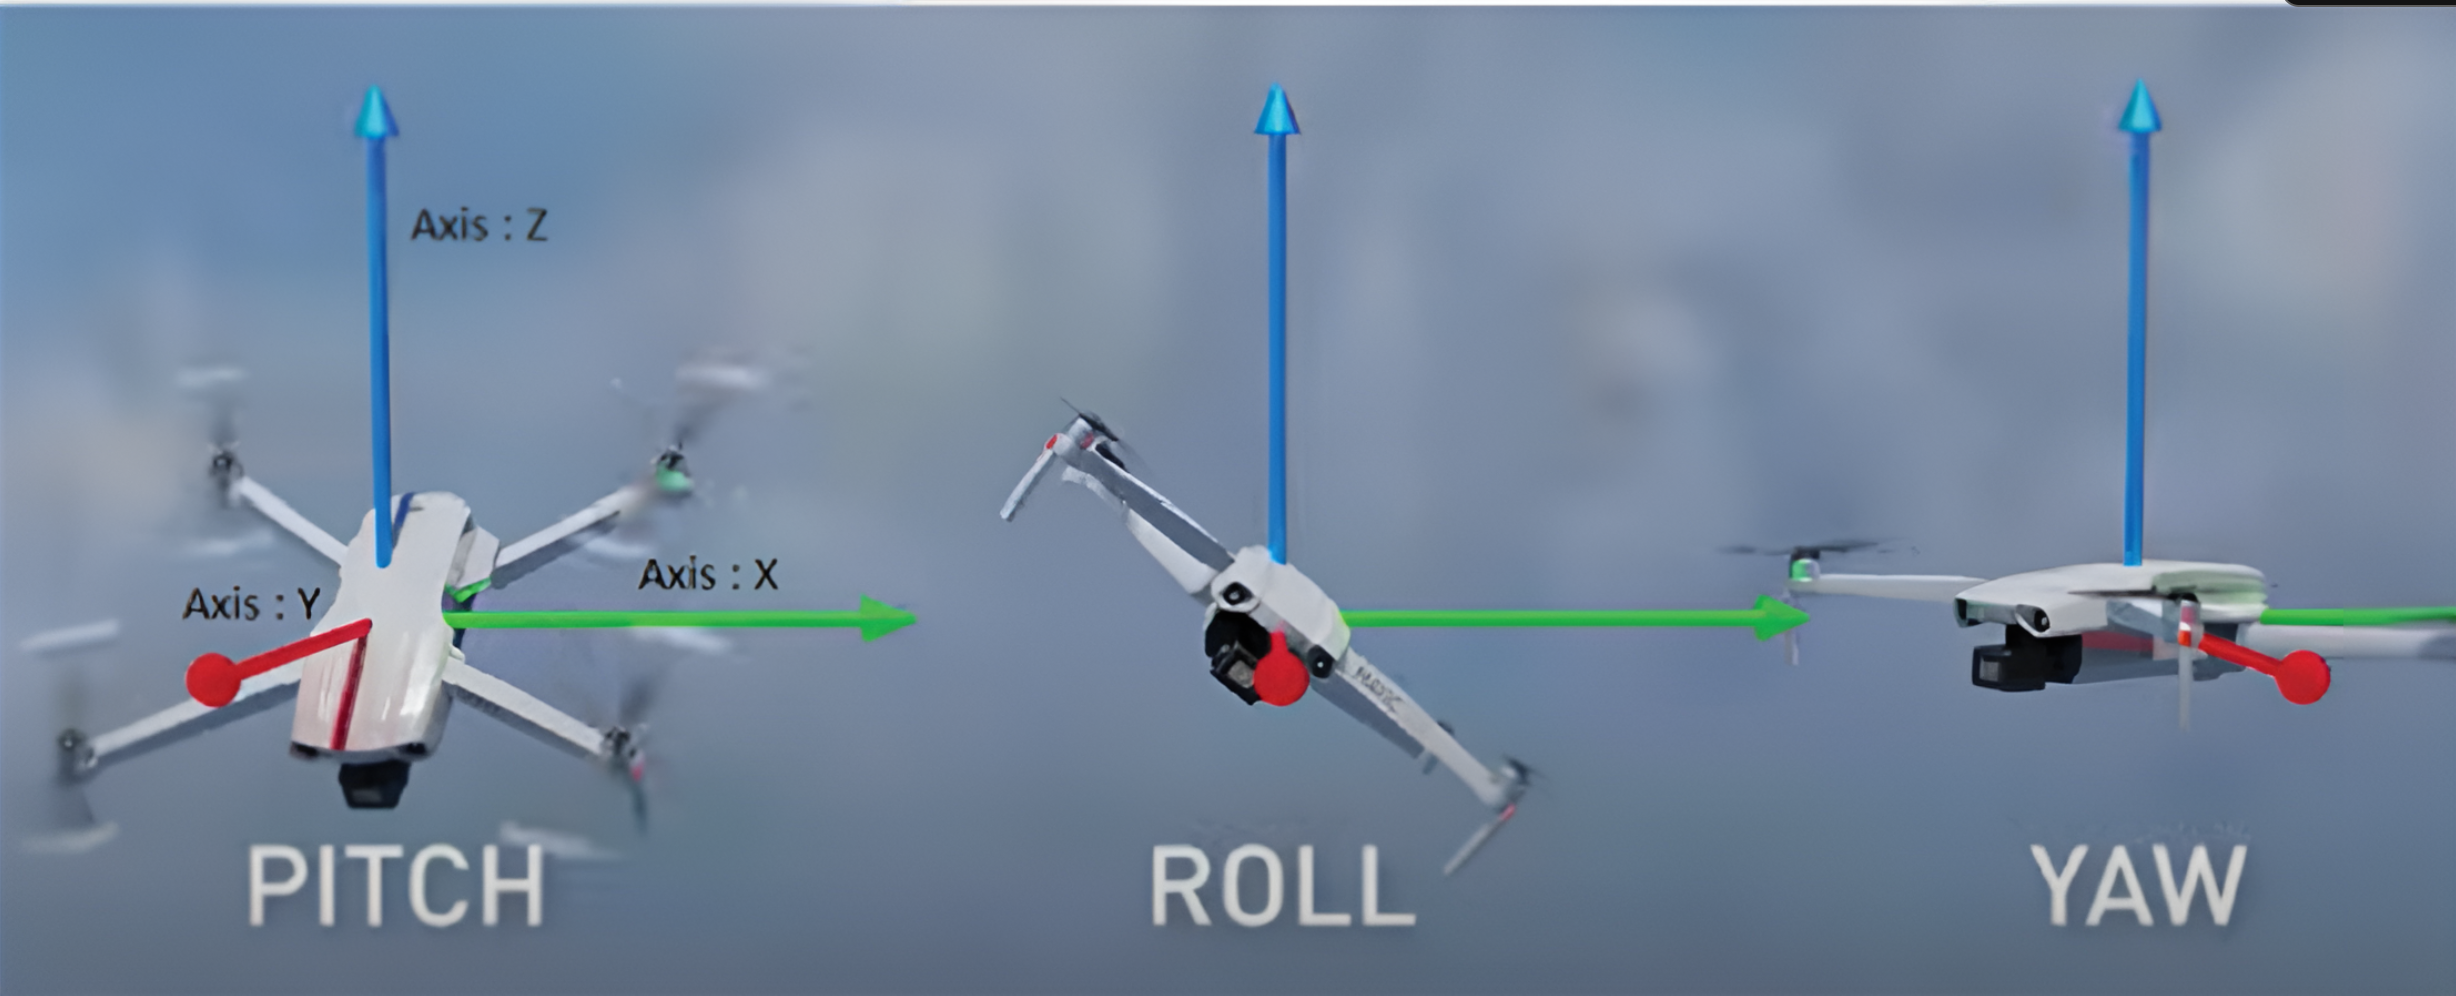
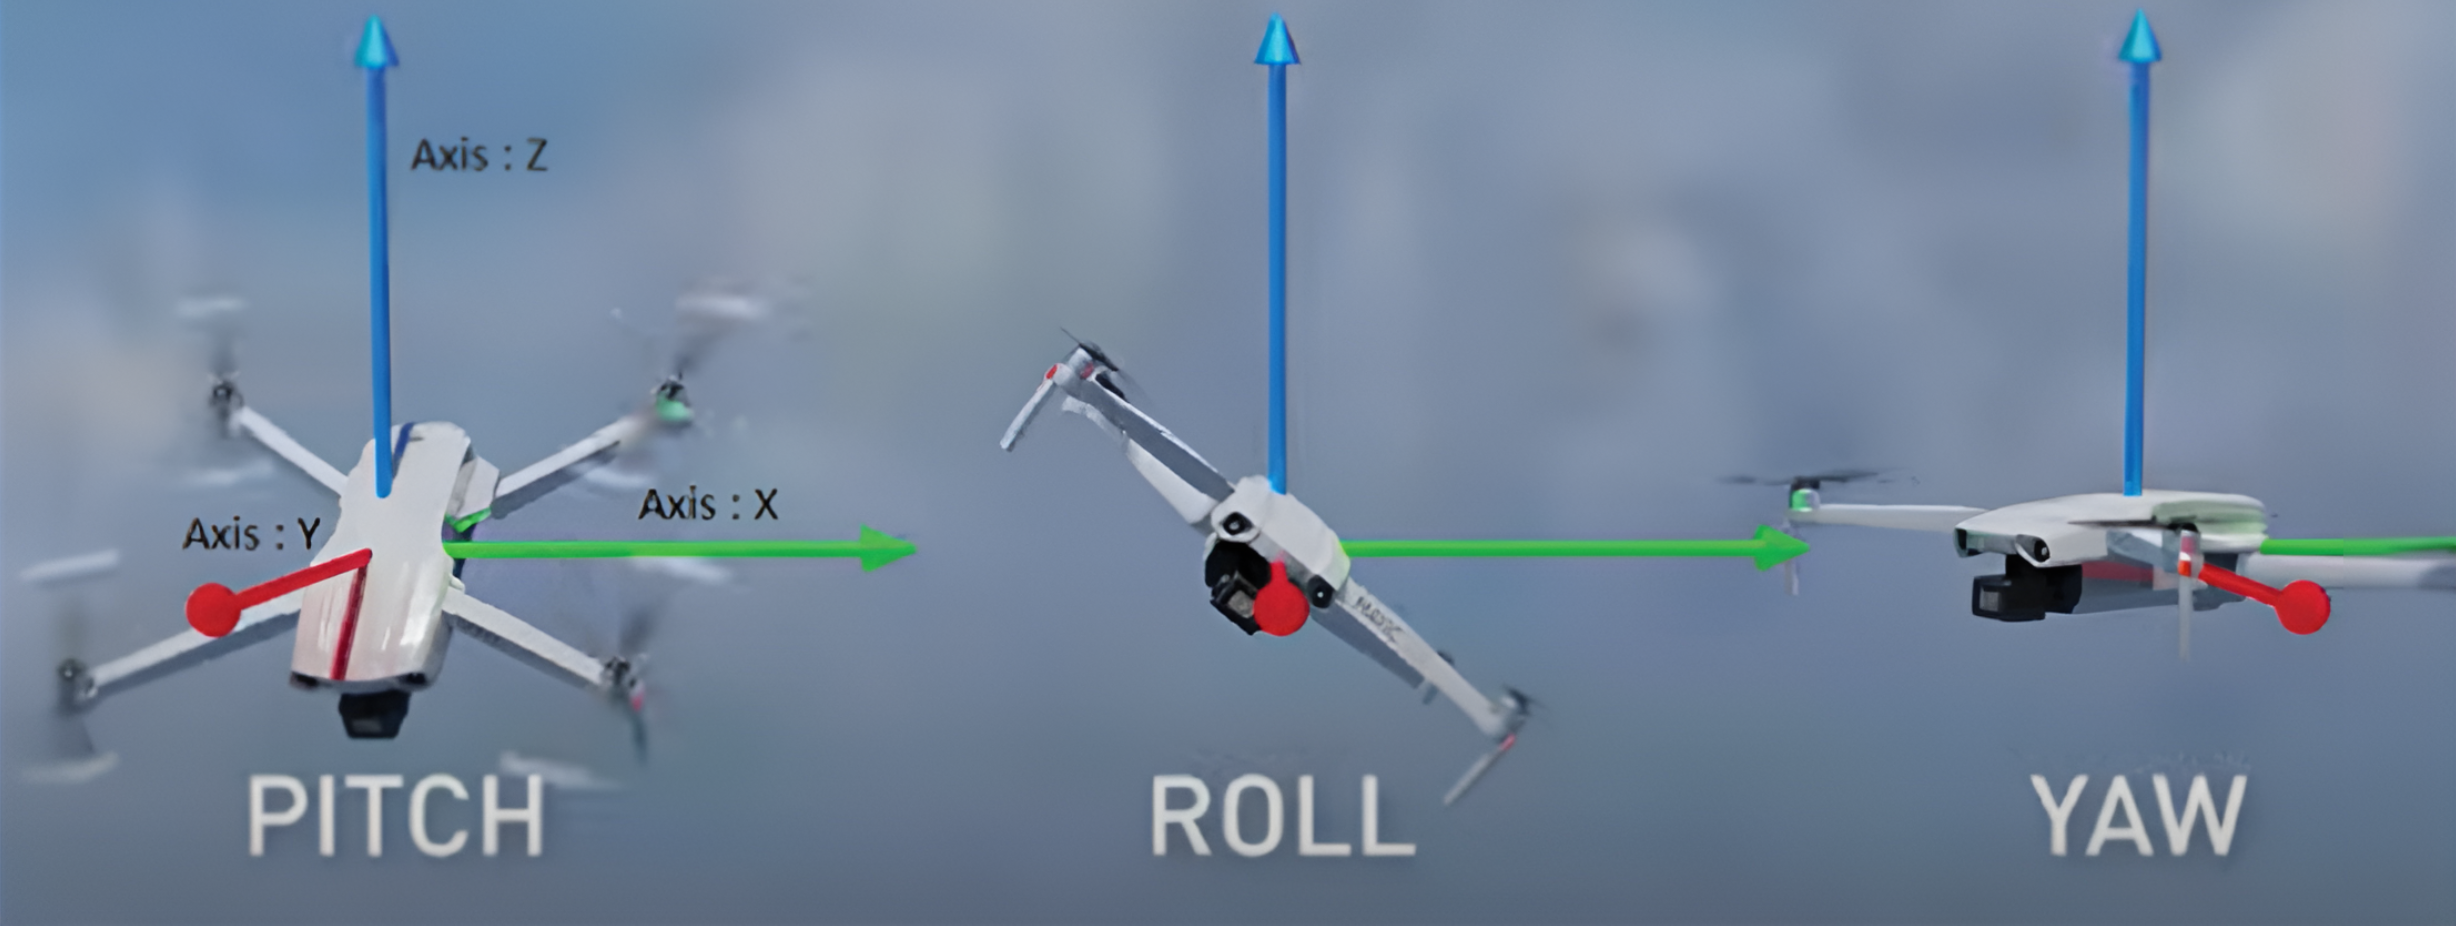
updated SUAS controls layout

diff --git a/PythonPorjects/STE_Toolkit.py b/PythonPorjects/STE_Toolkit.py
@@ -13970,7 +13970,17 @@ class DronePanel(tk.Frame):
             bg="#2B2B2B",
             fg="white"
         )
-        title_label.pack(pady=(0, 40))
+        title_label.pack(pady=(0, 10))
+        
+        # LB legend
+        legend_label = tk.Label(
+            content_frame,
+            text="LB = Leaderboard",
+            font=("Helvetica", 14),
+            bg="#2B2B2B",
+            fg="#FF8C00"
+        )
+        legend_label.pack(pady=(0, 30))
         
         # Three-column container
         columns_frame = tk.Frame(content_frame, bg="#2B2B2B")
@@ -14049,13 +14059,13 @@ class DronePanel(tk.Frame):
                 
                 btn.pack(side="left", padx=(0, 5))
                 
-                # Add clipboard icon button for leaderboard (all tables including disabled)
-                clipboard_btn = tk.Button(
+                # Add LB button for leaderboard (all tables including disabled)
+                lb_btn = tk.Button(
                     btn_container,
-                    text="📋",
-                    font=("Helvetica", 18),
+                    text="LB",
+                    font=("Helvetica", 16, "bold"),
                     bg="#3A3A3A",
-                    fg="white",
+                    fg="#FF8C00",
                     width=3,
                     height=2,
                     command=lambda col=col_idx, num=btn_num: self.show_leaderboard(col, num),
@@ -14064,8 +14074,8 @@ class DronePanel(tk.Frame):
                     relief="flat",
                     activebackground="#4A4A4A"
                 )
-                clipboard_btn.pack(side="left")
-                add_button_hover_effect(clipboard_btn, normal_bg="#3A3A3A", hover_bg="#4A4A4A")
+                lb_btn.pack(side="left")
+                add_button_hover_effect(lb_btn, normal_bg="#3A3A3A", hover_bg="#4A4A4A")
         
         # Back button at the bottom
         back_button = tk.Button(
@@ -14908,30 +14918,27 @@ class ScenarioSetupPanel(tk.Frame):
         self.back_callback = back_callback
         # Load original images (store PIL originals for dynamic resize)
         img1_path = _resource_path(os.path.join("assets", "ControllerControls.png"))
-        img2_path = _resource_path(os.path.join("assets", "DroneControls.png"))
+        img2_path = _resource_path(os.path.join("assets", "ExsampleControls.png"))
         img3_path = _resource_path(os.path.join("assets", "3rdPcontrolls.png"))
-        img4_path = _resource_path(os.path.join("assets", "ExsampleControls.png"))
         self.img1_orig = self._open_image(img1_path)
         self.img2_orig = self._open_image(img2_path)
         self.img3_orig = self._open_image(img3_path)
-        self.img4_orig = self._open_image(img4_path)
         
-        # Pre-render images at target sizes to avoid visible resize
-        # Calculate expected grid cell sizes based on typical window dimensions
-        self.img1tk = self._make_photo(self.img1_orig, 500, 350)
-        self.img2tk = self._make_photo(self.img2_orig, 500, 350)
-        self.img3tk = self._make_photo(self.img3_orig, 600, 450)
-        self.img4tk = self._make_photo(self.img4_orig, 500, 350)
+        # Pre-render images at fixed sizes for both fullscreen and windowed mode
+        # These sizes work well for 1920x1080 fullscreen and typical windowed sizes
+        self.img1tk = self._make_photo(self.img1_orig, 580, 400)
+        self.img2tk = self._make_photo(self.img2_orig, 580, 400)
+        self.img3tk = self._make_photo(self.img3_orig, 1116, 400)  
         
-        # Flag to prevent initial resize flicker
-        self._images_initialized = False
+        # Set initialized to True immediately to disable dynamic resizing
+        self._images_initialized = True
 
         # Layout similar to mock: top row buttons + name box; second row images + instructions
         main_container = tk.Frame(self, bg="#232323")
         main_container.pack(expand=True, fill="both", padx=0, pady=0)
 
         content_frame = tk.Frame(main_container, bg="#232323")
-        content_frame.pack(expand=True, fill="both", padx=20, pady=(20, 0))
+        content_frame.pack(expand=True, fill="both", padx=20, pady=(20, 30))
 
         # Back button (absolute top-right)
         back_btn = tk.Button(
@@ -15020,21 +15027,19 @@ class ScenarioSetupPanel(tk.Frame):
         grid_frame.grid_rowconfigure(0, weight=1, uniform="row")
         grid_frame.grid_rowconfigure(1, weight=1, uniform="row", minsize=140)
 
-        # Row 0, Column 0: First controller image
+        # Row 0, Column 0: First controller image (fixed size, no resize binding)
         img1_holder = tk.Frame(grid_frame, bg="#232323", bd=2, relief="solid")
         img1_holder.grid(row=0, column=0, sticky="nsew", padx=(0, 10), pady=(5, 5))
         if self.img1tk:
             self.img1_label = tk.Label(img1_holder, image=self.img1tk, bg="#232323")
             self.img1_label.pack(expand=True, fill="both")
-            img1_holder.bind("<Configure>", lambda e: self._on_holder_resize(1, e.width, e.height))
 
-        # Row 0, Column 1: Second drone image
+        # Row 0, Column 1: ExsampleControls image (fixed size, no resize binding)
         img2_holder = tk.Frame(grid_frame, bg="#232323", bd=2, relief="solid")
         img2_holder.grid(row=0, column=1, sticky="nsew", padx=(0, 10), pady=(5, 5))
         if self.img2tk:
             self.img2_label = tk.Label(img2_holder, image=self.img2tk, bg="#232323")
             self.img2_label.pack(expand=True, fill="both")
-            img2_holder.bind("<Configure>", lambda e: self._on_holder_resize(2, e.width, e.height))
 
         # Row 0-1, Column 2: Instructions (spans both rows)
         instr_holder = tk.Frame(grid_frame, bg="#232323")
@@ -15057,25 +15062,19 @@ class ScenarioSetupPanel(tk.Frame):
         )
         instr_text.pack(anchor="nw")
 
-        # Row 1, Column 0: Placeholder for future fourth image (under first image)
-        img4_holder = tk.Frame(grid_frame, bg="#232323", bd=2, relief="solid")
-        img4_holder.grid(row=1, column=0, sticky="nsew", padx=(0, 10), pady=(5, 0))
-        if self.img4tk:
-            self.img4_label = tk.Label(img4_holder, image=self.img4tk, bg="#232323")
-            self.img4_label.pack(expand=True, fill="both")
-            img4_holder.bind("<Configure>", lambda e: self._on_holder_resize(4, e.width, e.height))
-
-        # Row 1, Column 1: Third controller image (under second image)
+        # Row 1, Column 0-1: 3rdPcontrolls image (spans 2 columns, allows manual resize)
         img3_holder = tk.Frame(grid_frame, bg="#232323", bd=2, relief="solid")
-        img3_holder.grid(row=1, column=1, sticky="nsew", padx=(0, 10), pady=(5, 0))
+        img3_holder.grid(row=1, column=0, columnspan=2, sticky="nsew", padx=(0, 10), pady=(5, 0))
         if self.img3tk:
             self.img3_label = tk.Label(img3_holder, image=self.img3tk, bg="#232323")
             self.img3_label.pack(expand=True, fill="both")
-            img3_holder.bind("<Configure>", lambda e: self._on_holder_resize(3, e.width, e.height))
+        # Allow manual resize for bottom image
+        img3_holder.bind("<Configure>", lambda e: self._on_holder_resize(3, e.width, e.height))
 
-        # Footer spacer at the bottom
-        footer = tk.Frame(content_frame, bg="#232323", height=30)
-        footer.pack(fill="x", pady=(10, 0))
+        # Footer spacer at the bottom (keeps image from hitting window edge)
+        footer = tk.Frame(content_frame, bg="#232323", height=50)
+        footer.pack(fill="x", pady=(20, 0))
+        footer.pack_propagate(False)
 
     def _open_image(self, path: str):
         try:
@@ -15117,7 +15116,7 @@ class ScenarioSetupPanel(tk.Frame):
         elif which == 3:
             pil = self.img3_orig
         else:
-            pil = self.img4_orig
+            return  # No img4 anymore
         if not pil:
             return
         photo = self._make_photo(pil, w2, h2)
@@ -15135,10 +15134,6 @@ class ScenarioSetupPanel(tk.Frame):
             self.img3tk = photo
             self.img3_label.configure(image=photo)
             self.img3_label.image = photo
-        else:
-            self.img4tk = photo
-            self.img4_label.configure(image=photo)
-            self.img4_label.image = photo
 
     def _launch(self, tod: str):
         name = self.name_var.get().strip() or "Anonymous User"
